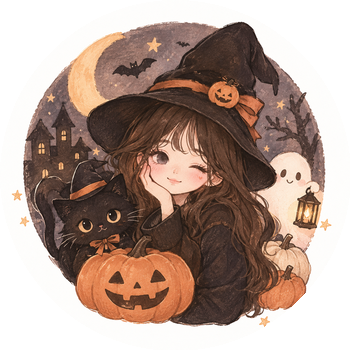
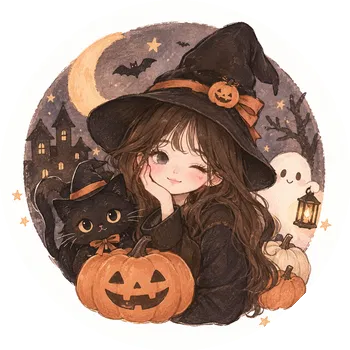
Add files via upload

diff --git a/index.html b/index.html
@@ -2479,8 +2479,7 @@ main {
 <header class="site-header">
   <div class="header-inner">
     <div class="brand" onclick="clearAllFilters()" style="cursor:pointer;" title="回到首頁">
-      <span class="brand-name">WanWan Selected</span>
-      <span id="brandHalloween" style="display:none;font-size:17px;margin-left:4px;line-height:1;vertical-align:-1px;filter:drop-shadow(0 1px 2px rgba(255,140,30,.35));">🎃</span>
+      <span class="brand-name">WanWan Selected<span id="brandHalloween" style="display:none;font-size:0.78em;margin-left:5px;line-height:1;filter:drop-shadow(0 1px 2px rgba(255,140,30,.35));">🎃</span></span>
     </div>
     <div class="search-box">
       <span class="search-icon">🔍</span>
@@ -3029,6 +3028,7 @@ async function loadProducts() {
   if (!APPS_SCRIPT_URL) {
     // 還沒接 Apps Script
     allProducts = MOCK_PRODUCTS;
+    window._productsLoadedOnce = true; // ★ v2.9.38
     document.getElementById('demoBanner').style.display = 'block';
     render();
     return;
@@ -3038,6 +3038,7 @@ async function loadProducts() {
     const data = await res.json();
     if (data && data.ok && Array.isArray(data.products)) {
       allProducts = data.products;
+      window._productsLoadedOnce = true; // ★ v2.9.38
       document.getElementById('demoBanner').style.display = 'none';
       render();
     } else {
@@ -3046,6 +3047,7 @@ async function loadProducts() {
   } catch (err) {
     console.warn('無法載入商品，改用 mock 資料', err);
     allProducts = MOCK_PRODUCTS;
+    window._productsLoadedOnce = true; // ★ v2.9.38
     document.getElementById('demoBanner').style.display = 'block';
     document.getElementById('demoBanner').innerHTML = '<strong>⚠ 展示模式</strong>：無法連線到伺服器，顯示範例商品';
     render();
@@ -3779,6 +3781,23 @@ function renderProducts() {
   const list = getFilteredProducts();
   const area = document.getElementById('productArea');
   const count = document.getElementById('resultCount');
+
+  // ★ v2.9.38 商品還沒載入完 → 顯示 loading 畫面而非「找不到商品」
+  if (!window._productsLoadedOnce && allProducts.length === 0) {
+    count.innerHTML = '';
+    const now = new Date(); const _m = now.getMonth() + 1, _d = now.getDate();
+    const isHl = (_m === 10 && _d >= 20) || (_m === 11 && _d <= 2);
+    const indicator = isHl
+      ? `<img src="halloween.png" alt="" style="width:140px;height:140px;border-radius:50%;animation:halloween-bob 2.4s ease-in-out infinite;filter:drop-shadow(0 6px 18px rgba(255,140,30,.35));">`
+      : `<div style="width:48px;height:48px;border:3px solid var(--border);border-top-color:var(--apricot-deep);border-radius:50%;animation:spin .8s linear infinite;margin:0 auto;"></div>`;
+    area.innerHTML = `
+      <div class="empty-state" style="padding:50px 20px;text-align:center;">
+        ${indicator}
+        <h3 style="color:var(--text-mute);margin-top:16px;font-weight:600;">商品載入中...</h3>
+        <p style="color:var(--text-mute);font-size:12px;">${isHl ? '🎃 女巫正在幫你準備中' : '請稍等'}</p>
+      </div>`;
+    return;
+  }
 
   if (list.length === 0) {
     count.innerHTML = '';
